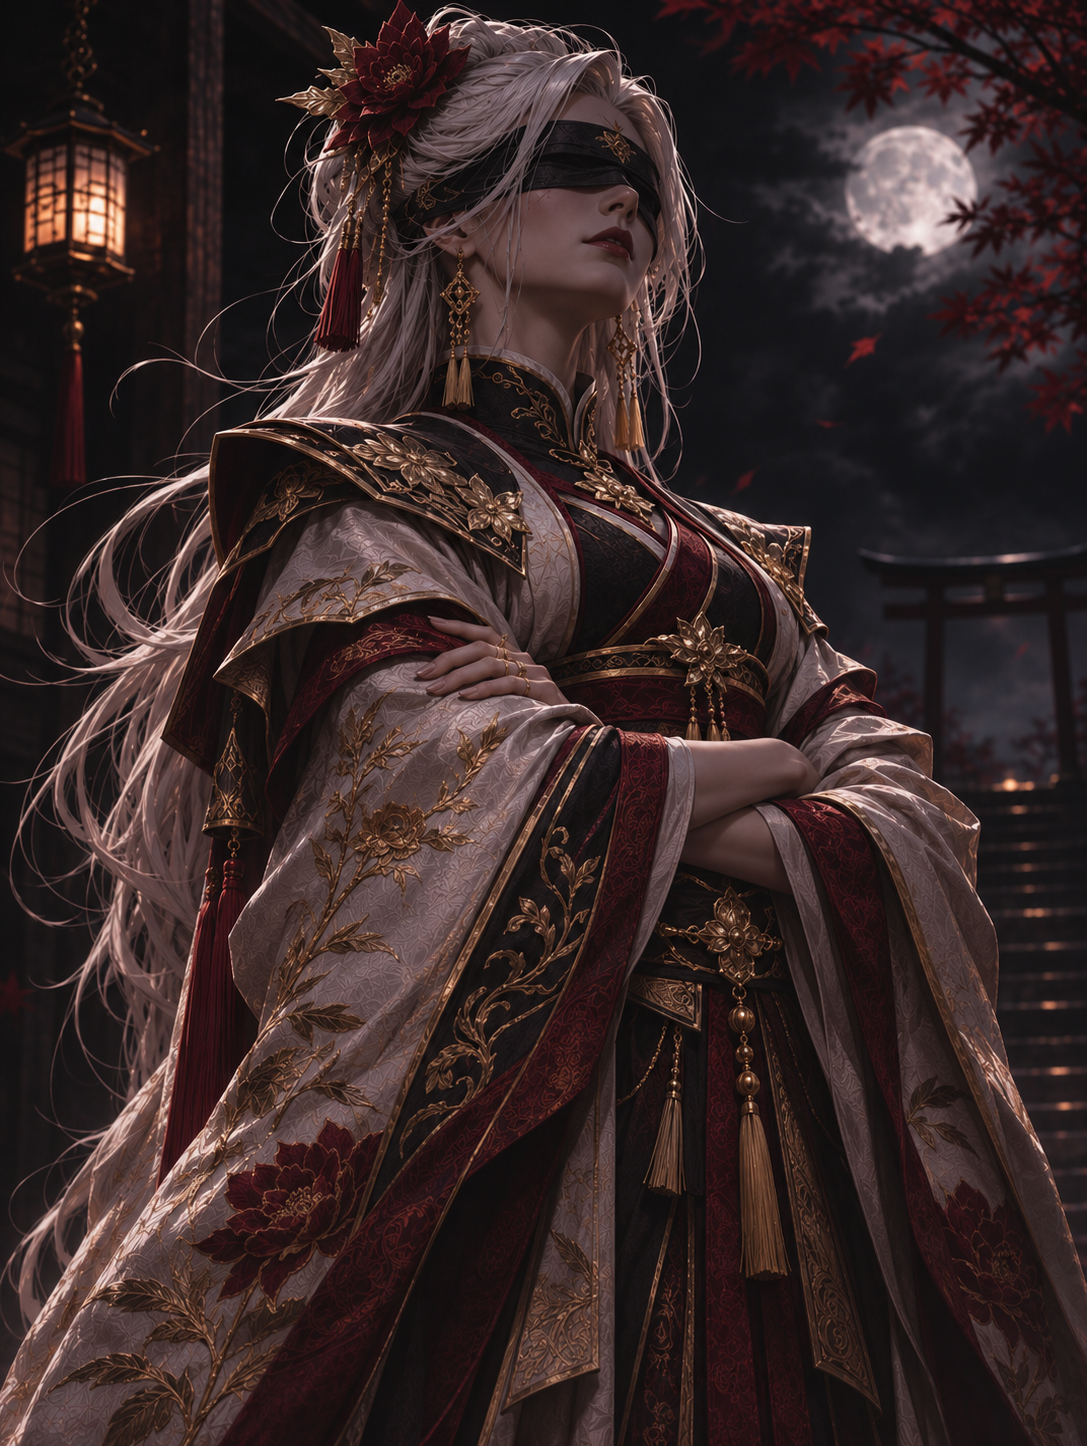
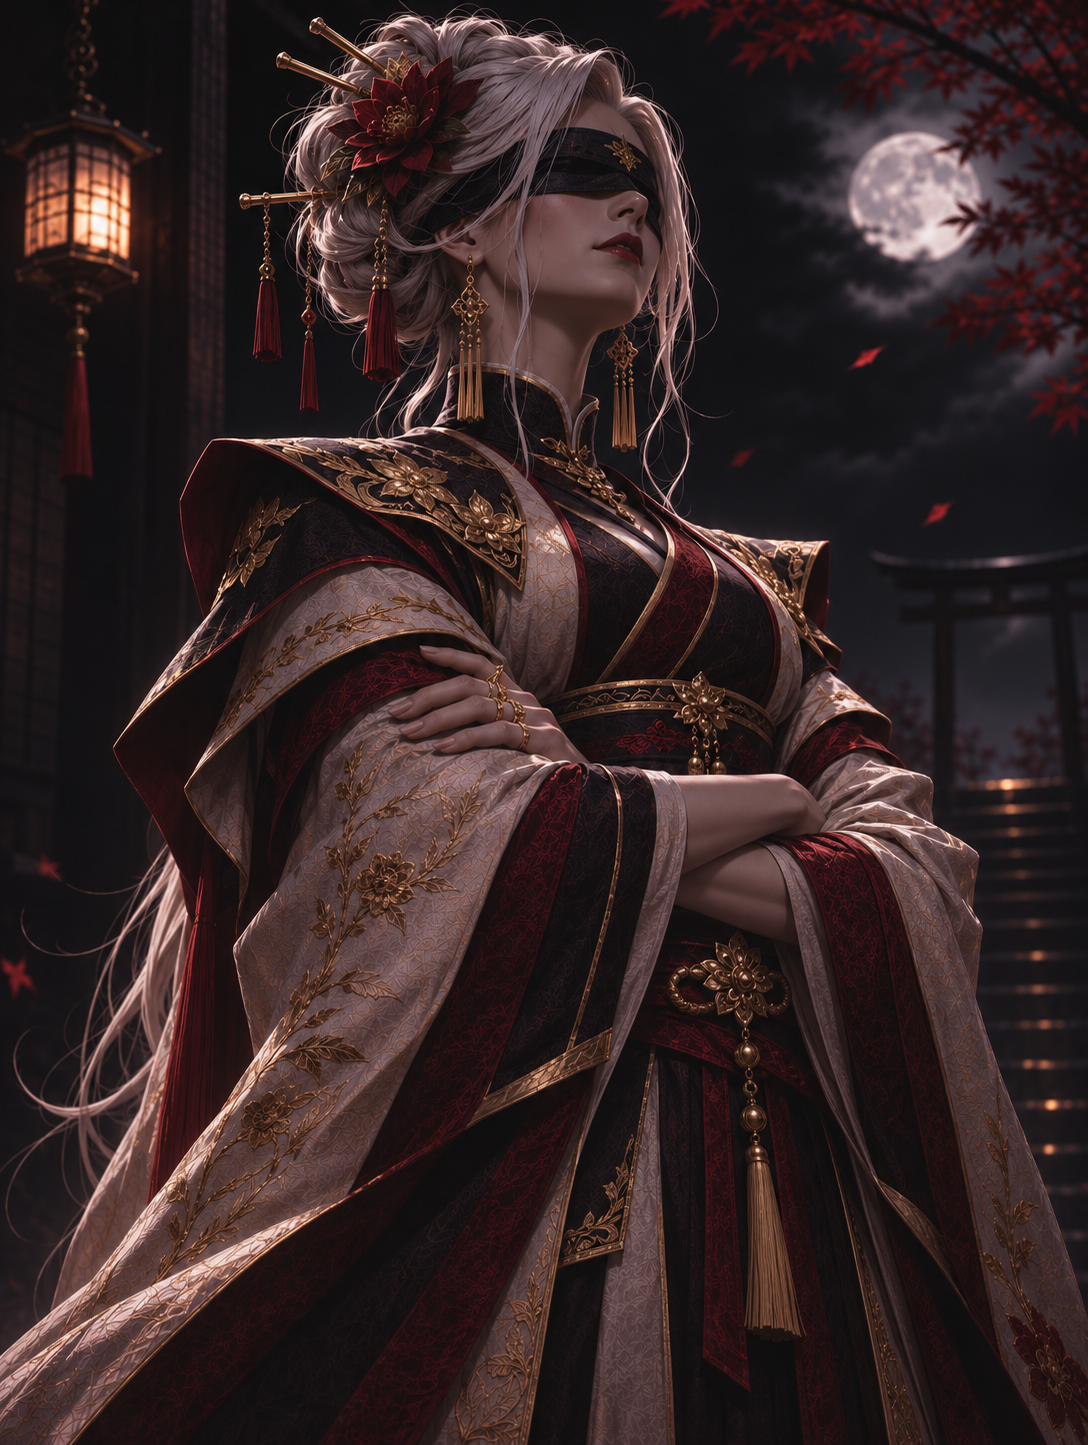
Refresh Tengoku profile backdrops and Kiyoko portrait

diff --git a/npcs/kiyoko-kurogane.html b/npcs/kiyoko-kurogane.html
@@ -3,14 +3,14 @@
 <head>
   <meta charset="utf-8"><meta name="viewport" content="width=device-width, initial-scale=1">
   <title>Kiyoko Kurogane — Tengoku Clan - Aevum Archive</title>
-  <meta name="description" content="Kiyoko Kurogane, mother of Kenka and Asakura. Her Mukenweave blindfold contains her overwhelming Spiritual Pressure.">
+  <meta name="description" content="Kiyoko Kurogane, mother of Kenka and Asakura. Her Stillweave blindfold contains her overwhelming Spiritual Pressure.">
   <link rel="stylesheet" href="/aevum-archive/assets/styles.css?v=20260815-sitefocus2"><link rel="stylesheet" href="/aevum-archive/assets/frame-overrides.css?v=20260910-portraits12"><link rel="stylesheet" href="/aevum-archive/assets/ornament-v3.css?v=20260817-1"><link rel="stylesheet" href="/aevum-archive/assets/round4-assets.css?v=20260817-6"><link rel="stylesheet" href="/aevum-archive/assets/master-ui.css?v=20260828-lorecodex1"><link rel="stylesheet" href="/aevum-archive/assets/master-pass.css?v=20260912-2"><link rel="stylesheet" href="/aevum-archive/assets/global-header.css?v=20260902-header4">
   <link rel="stylesheet" href="/aevum-archive/assets/halloween.css?v=20261030-allhallows1">
   <script src="/aevum-archive/assets/halloween.js?v=20261030-allhallows1"></script>
   <link rel="stylesheet" href="/aevum-archive/assets/npc-dossiers.css?v=20261109-npc1">
-  <link rel="stylesheet" href="/aevum-archive/assets/tengoku-dossiers.css?v=20261111-1">
+  <link rel="stylesheet" href="/aevum-archive/assets/tengoku-dossiers.css?v=20261111-backdrop">
 </head>
-<body class="archive-page theme-npcs page-detail route-npcs-kiyoko-kurogane npc-dossier-page npc-dossier-tengoku">
+<body class="archive-page theme-npcs page-detail route-npcs-kiyoko-kurogane npc-dossier-page tengoku-backdrop npc-dossier-tengoku">
   <header class="site-header"><a class="brand" href="/aevum-archive/"><img class="brand-mark home-brand-crest" src="/aevum-archive/assets/archive-mark.svg" alt="" width="64" height="64"><span><span class="brand-title">Aevum Archive</span><span class="brand-subtitle">world wiki and living archive</span></span></a><nav class="nav" aria-label="Archive navigation"><a href="/aevum-archive/">Start</a><a href="/aevum-archive/playthroughs/">Playthroughs</a><a href="/aevum-archive/characters/">Characters</a><a href="/aevum-archive/codex/">Codex</a><a href="/aevum-archive/npcs/">NPCs</a><a href="/aevum-archive/lore/">Lore</a><a href="/aevum-archive/events/">Events</a><a href="/aevum-archive/achievements/">Achievements</a><a href="/aevum-archive/leaderboard/">Leaderboard</a><a href="/aevum-archive/world-items/">Relics</a><a href="/aevum-archive/downloads/texture-pack.html">Downloads</a></nav></header>
   <main class="page npc-dossier">
     <nav class="npc-dossier-breadcrumb" aria-label="Breadcrumb">
@@ -25,26 +25,25 @@
         <dl class="tengoku-fact"><dt>Spiritual Power</dt><dd>Immense · Exact extent unknown</dd></dl>
       </div>
       <figure class="npc-dossier-visual tengoku-portrait">
-        <img src="/aevum-archive/assets/images/kiyoko-kurogane.webp" alt="Kiyoko Kurogane in a black blindfold and a red, black and gold kimono beneath a full moon" width="1087" height="1446" fetchpriority="high" decoding="async">
-        <figcaption><a href="/aevum-archive/assets/images/kiyoko-kurogane.webp" target="_blank" rel="noopener">Full artwork <span aria-hidden="true">↗</span></a></figcaption>
+        <img src="/aevum-archive/assets/images/kiyoko-kurogane.webp?v=20261111-portrait" alt="Kiyoko Kurogane in a black blindfold and a red, black and gold kimono beneath a full moon" width="1088" height="1445" fetchpriority="high" decoding="async">
       </figure>
     </section>
 
     <nav class="npc-dossier-index" aria-label="On this record">
-      <div><a href="#spiritual-pressure">Spiritual Pressure</a><a href="#mukenweave">Mukenweave</a></div>
+      <div><a href="#spiritual-pressure">Spiritual Pressure</a><a href="#stillweave">Stillweave</a></div>
     </nav>
 
     <section class="npc-dossier-chapter tengoku-chapter" id="spiritual-pressure" aria-labelledby="kiyoko-pressure-title">
       <h2 id="kiyoko-pressure-title">Spiritual Pressure</h2>
       <div>
-        <p>The full extent of Kiyoko’s power remains unknown. She needs a Mukenweave blindfold to keep the Spiritual Pressure she gives off under control.</p>
+        <p>The full extent of Kiyoko’s power remains unknown. She needs a Stillweave blindfold to keep the Spiritual Pressure she gives off under control.</p>
         <p>If that pressure were free to radiate into her surroundings, almost nobody could endure being near her.</p>
       </div>
     </section>
 
-    <section class="npc-dossier-chapter" id="mukenweave" aria-labelledby="mukenweave-title">
-      <div class="tengoku-feature tengoku-mukenweave">
-        <h2 id="mukenweave-title">Mukenweave</h2>
+    <section class="npc-dossier-chapter" id="stillweave" aria-labelledby="stillweave-title">
+      <div class="tengoku-feature tengoku-stillweave">
+        <h2 id="stillweave-title">Stillweave</h2>
         <p>A rare spiritual fabric woven to contain overwhelming Spiritual Pressure. It forces the wearer’s pressure to stay compressed close to the body, limiting how far it radiates into the surroundings.</p>
         <p>Kiyoko’s blindfold is made from this fabric. It keeps her pressure close enough to her that others can be in her presence.</p>
       </div>

diff --git a/assets/tengoku-dossiers.css b/assets/tengoku-dossiers.css
@@ -5,6 +5,26 @@
   font-display: swap;
 }
 
+body.npc-dossier-page.tengoku-backdrop.theme-npcs.page-detail {
+  isolation: isolate;
+  background: #110d13 !important;
+}
+body.npc-dossier-page.tengoku-backdrop.theme-npcs.page-detail::before {
+  content: "" !important;
+  position: fixed;
+  z-index: -1;
+  inset: 0;
+  opacity: 1;
+  mask-image: none;
+  background:
+    var(--tengoku-atmosphere),
+    url("/aevum-archive/assets/images/kenka-page-background.webp") center / 100% 100% no-repeat;
+}
+body.tengoku-backdrop.route-npcs-zenith-kurogane {
+  --tengoku-atmosphere:
+    repeating-radial-gradient(circle at 0 42%, transparent 0 54px, #c4ac831b 55px 56px, transparent 57px 115px),
+    linear-gradient(125deg, #161e2ac2, #090b10b0 52%, #2b2a2590);
+}
 body.npc-dossier-page.npc-dossier-tengoku {
   --npc-ink: #f6e9dc;
   --npc-display: "Cinzel", Georgia, serif;
@@ -13,11 +33,19 @@ body.npc-dossier-tengoku.route-npcs-asakura-kurogane {
   --npc-accent: #e5b083;
   --npc-paper: #1a1011;
   --tengoku-glow: #512a23;
+  --tengoku-atmosphere:
+    radial-gradient(ellipse at 2% 13%, #d6876360, transparent 41%),
+    radial-gradient(ellipse at 100% 77%, #ab55664d, transparent 54%),
+    linear-gradient(140deg, #391c29a6, #1a101ba6 65%, #48211d4d);
 }
 body.npc-dossier-tengoku.route-npcs-kiyoko-kurogane {
   --npc-accent: #d9b9ae;
   --npc-paper: #151016;
   --tengoku-glow: #432832;
+  --tengoku-atmosphere:
+    radial-gradient(circle at 96% 18%, #e4d6ee74 0, #b6acc555 3%, #d7cce462 3.4%, transparent 3.6%),
+    radial-gradient(circle at 96% 18%, #b6acc544, transparent 13%),
+    linear-gradient(145deg, #141528ae, #0b0e1cb0 53%, #291d3f91);
 }
 body.npc-dossier-page.npc-dossier-tengoku .npc-dossier .npc-dossier-hero {
   border-radius: 0;
@@ -58,14 +86,6 @@ body.npc-dossier-page.npc-dossier-tengoku .npc-dossier .npc-dossier-identity h1 
   text-underline-offset: 4px;
 }
 .npc-dossier-tengoku .tengoku-portrait { border-inline-start: 1px solid var(--npc-line); }
-.tengoku-portrait figcaption { position: absolute; inset: auto 14px 14px auto; }
-.tengoku-portrait a {
-  display: inline-block;
-  padding: 8px 11px;
-  border: 1px solid var(--npc-line);
-  background: #100d0dec;
-  font: 500 .75rem/1.6 Verdana, sans-serif;
-}
 .npc-dossier-tengoku .npc-dossier-index { background: var(--npc-paper); }
 
 .tengoku-chapter {
@@ -95,7 +115,7 @@ body.npc-dossier-tengoku .npc-dossier .tengoku-chapter > h2,
   border: 1px solid var(--npc-line);
   background: radial-gradient(ellipse at 12% 0%, var(--tengoku-glow), transparent 75%), var(--npc-paper);
 }
-.tengoku-mukenweave {
+.tengoku-stillweave {
   background:
     repeating-linear-gradient(48deg, #ffffff06 0 1px, transparent 1px 6px),
     repeating-linear-gradient(132deg, #ffffff05 0 1px, transparent 1px 6px),

diff --git a/npcs/asakura-kurogane.html b/npcs/asakura-kurogane.html
@@ -8,9 +8,9 @@
   <link rel="stylesheet" href="/aevum-archive/assets/halloween.css?v=20261030-allhallows1">
   <script src="/aevum-archive/assets/halloween.js?v=20261030-allhallows1"></script>
   <link rel="stylesheet" href="/aevum-archive/assets/npc-dossiers.css?v=20261109-npc1">
-  <link rel="stylesheet" href="/aevum-archive/assets/tengoku-dossiers.css?v=20261111-1">
+  <link rel="stylesheet" href="/aevum-archive/assets/tengoku-dossiers.css?v=20261111-backdrop">
 </head>
-<body class="archive-page theme-npcs page-detail route-npcs-asakura-kurogane npc-dossier-page npc-dossier-tengoku">
+<body class="archive-page theme-npcs page-detail route-npcs-asakura-kurogane npc-dossier-page tengoku-backdrop npc-dossier-tengoku">
   <header class="site-header"><a class="brand" href="/aevum-archive/"><img class="brand-mark home-brand-crest" src="/aevum-archive/assets/archive-mark.svg" alt="" width="64" height="64"><span><span class="brand-title">Aevum Archive</span><span class="brand-subtitle">world wiki and living archive</span></span></a><nav class="nav" aria-label="Archive navigation"><a href="/aevum-archive/">Start</a><a href="/aevum-archive/playthroughs/">Playthroughs</a><a href="/aevum-archive/characters/">Characters</a><a href="/aevum-archive/codex/">Codex</a><a href="/aevum-archive/npcs/">NPCs</a><a href="/aevum-archive/lore/">Lore</a><a href="/aevum-archive/events/">Events</a><a href="/aevum-archive/achievements/">Achievements</a><a href="/aevum-archive/leaderboard/">Leaderboard</a><a href="/aevum-archive/world-items/">Relics</a><a href="/aevum-archive/downloads/texture-pack.html">Downloads</a></nav></header>
   <main class="page npc-dossier">
     <nav class="npc-dossier-breadcrumb" aria-label="Breadcrumb">
@@ -26,7 +26,6 @@
       </div>
       <figure class="npc-dossier-visual tengoku-portrait">
         <img src="/aevum-archive/assets/images/asakura-kurogane.webp" alt="Asakura Kurogane in a red, black and gold kimono with wisps of golden light at dusk" width="1087" height="1446" fetchpriority="high" decoding="async">
-        <figcaption><a href="/aevum-archive/assets/images/asakura-kurogane.webp" target="_blank" rel="noopener">Full artwork <span aria-hidden="true">↗</span></a></figcaption>
       </figure>
     </section>
 

diff --git a/npcs/kenka.html b/npcs/kenka.html
@@ -8,7 +8,7 @@
   <link rel="stylesheet" href="/aevum-archive/assets/halloween.css?v=20261030-allhallows1">
   <script src="/aevum-archive/assets/halloween.js?v=20261030-allhallows1"></script>
   <link rel="stylesheet" href="/aevum-archive/assets/npc-dossiers.css?v=20261109-npc1">
-  <link rel="stylesheet" href="/aevum-archive/assets/kenka-dossier.css?v=20261111-kurogane">
+  <link rel="stylesheet" href="/aevum-archive/assets/kenka-dossier.css?v=20261111-portrait">
 </head>
 <body class="archive-page theme-npcs page-detail route-npcs-kenka npc-dossier-page npc-dossier-kenka">
   <header class="site-header"><a class="brand" href="/aevum-archive/"><img class="brand-mark home-brand-crest" src="/aevum-archive/assets/archive-mark.svg" alt="" width="64" height="64"><span><span class="brand-title">Aevum Archive</span><span class="brand-subtitle">world wiki and living archive</span></span></a><nav class="nav" aria-label="Archive navigation"><a href="/aevum-archive/">Start</a><a href="/aevum-archive/playthroughs/">Playthroughs</a><a href="/aevum-archive/characters/">Characters</a><a href="/aevum-archive/codex/">Codex</a><a href="/aevum-archive/npcs/">NPCs</a><a href="/aevum-archive/lore/">Lore</a><a href="/aevum-archive/events/">Events</a><a href="/aevum-archive/achievements/">Achievements</a><a href="/aevum-archive/leaderboard/">Leaderboard</a><a href="/aevum-archive/world-items/">Relics</a><a href="/aevum-archive/downloads/texture-pack.html">Downloads</a></nav></header>
@@ -29,7 +29,6 @@
       </div>
       <figure class="npc-dossier-visual kenka-portrait">
         <img src="/aevum-archive/assets/images/kenka.webp" alt="Kenka, white-haired and dressed in black with gold accents, standing beside a torii gate at sunset" width="1087" height="1446" fetchpriority="high" decoding="async">
-        <figcaption><a href="/aevum-archive/assets/images/kenka.webp" target="_blank" rel="noopener">Full artwork <span aria-hidden="true">↗</span></a></figcaption>
       </figure>
     </section>
 

diff --git a/npcs/zenith-kurogane.html b/npcs/zenith-kurogane.html
@@ -8,9 +8,10 @@
   <link rel="stylesheet" href="/aevum-archive/assets/halloween.css?v=20261030-allhallows1">
   <script src="/aevum-archive/assets/halloween.js?v=20261030-allhallows1"></script>
   <link rel="stylesheet" href="/aevum-archive/assets/npc-dossiers.css?v=20261109-npc1">
-  <link rel="stylesheet" href="/aevum-archive/assets/zenith-dossier.css?v=20261111-pressure">
+  <link rel="stylesheet" href="/aevum-archive/assets/tengoku-dossiers.css?v=20261111-backdrop">
+  <link rel="stylesheet" href="/aevum-archive/assets/zenith-dossier.css?v=20261111-backdrop">
 </head>
-<body class="archive-page theme-npcs page-detail route-npcs-zenith-kurogane npc-dossier-page npc-dossier-zenith">
+<body class="archive-page theme-npcs page-detail route-npcs-zenith-kurogane npc-dossier-page tengoku-backdrop npc-dossier-zenith">
   <header class="site-header"><a class="brand" href="/aevum-archive/"><img class="brand-mark home-brand-crest" src="/aevum-archive/assets/archive-mark.svg" alt="" width="64" height="64"><span><span class="brand-title">Aevum Archive</span><span class="brand-subtitle">world wiki and living archive</span></span></a><nav class="nav" aria-label="Archive navigation"><a href="/aevum-archive/">Start</a><a href="/aevum-archive/playthroughs/">Playthroughs</a><a href="/aevum-archive/characters/">Characters</a><a href="/aevum-archive/codex/">Codex</a><a href="/aevum-archive/npcs/">NPCs</a><a href="/aevum-archive/lore/">Lore</a><a href="/aevum-archive/events/">Events</a><a href="/aevum-archive/achievements/">Achievements</a><a href="/aevum-archive/leaderboard/">Leaderboard</a><a href="/aevum-archive/world-items/">Relics</a><a href="/aevum-archive/downloads/texture-pack.html">Downloads</a></nav></header>
   <main class="page npc-dossier">
     <nav class="npc-dossier-breadcrumb" aria-label="Breadcrumb">

diff --git a/npcs/index.html b/npcs/index.html
@@ -165,8 +165,8 @@
     <a class="card npc-card tengoku-card tengoku-card--kiyoko" href="/aevum-archive/npcs/kiyoko-kurogane.html">
       <span class="tengoku-card-mark" aria-hidden="true"><span>◈</span></span>
       <h3>Kiyoko <span>Kurogane</span></h3>
-      <p>Mother of Kenka and Asakura. Her Mukenweave blindfold contains her Spiritual Pressure.</p>
-      <span class="tengoku-card-footer">Mukenweave <span aria-hidden="true">↗</span></span>
+      <p>Mother of Kenka and Asakura. Her Stillweave blindfold contains her Spiritual Pressure.</p>
+      <span class="tengoku-card-footer">Stillweave <span aria-hidden="true">↗</span></span>
     </a>
     <a class="card npc-card tengoku-card tengoku-card--asakura" href="/aevum-archive/npcs/asakura-kurogane.html">
       <span class="tengoku-card-mark" aria-hidden="true"><span>✿</span></span>

diff --git a/assets/zenith-dossier.css b/assets/zenith-dossier.css
@@ -1,16 +1,8 @@
-@font-face {
-  font-family: "Cinzel";
-  src: url("/aevum-archive/assets/fonts/cinzel/Cinzel-Variable.ttf") format("truetype");
-  font-weight: 400 900;
-  font-display: swap;
-}
-
 body.npc-dossier-page.npc-dossier-zenith.theme-npcs.page-detail {
   --npc-accent: #c4ac83;
   --npc-paper: #111214;
   --npc-ink: #eee8dc;
   --npc-display: "Cinzel", Georgia, serif;
-  background: radial-gradient(ellipse at 72% 8%, #262423, transparent 50rem), #0b0b0e !important;
 }
 body.npc-dossier-page.npc-dossier-zenith .npc-dossier .npc-dossier-hero {
   display: block;

diff --git a/assets/kenka-dossier.css b/assets/kenka-dossier.css
@@ -67,19 +67,6 @@ body.npc-dossier-page.npc-dossier-kenka .npc-dossier-identity h1 {
 .npc-dossier-kenka .kenka-portrait {
   border-inline-start: 1px solid var(--npc-line);
 }
-.kenka-portrait figcaption {
-  position: absolute;
-  inset: auto 16px 16px auto;
-}
-.kenka-portrait a {
-  display: inline-block;
-  padding: 8px 12px;
-  border: 1px solid var(--npc-line);
-  background: #140e0deb;
-  color: #ffe0b6;
-  font: 400 .73rem/1.5 Verdana, sans-serif;
-  text-underline-offset: 4px;
-}
 
 .kenka-power {
   display: grid;

diff --git a/CHANGELOG.md b/CHANGELOG.md
@@ -2,6 +2,7 @@
 
 ## 2026-11-11
 
+- Updated Kiyoko’s portrait, renamed her blindfold fabric to Stillweave, and added profile backdrops for Kiyoko, Asakura and Zenith. Removed the full artwork links from the Tengoku portraits.
 - Grouped the four Kurogane NPCs in the searchable Tengoku Clan shelf with portrait-free clan cards.
 - Added Asakura and Kiyoko Kurogane with their portraits, spiritual abilities and family links. Expanded Zenith’s Spiritual Pressure chapter.
 - Added Kenka Kurogane’s surname and Zenith Kurogane’s dossier with the Tengoku clan and Kagegane.
